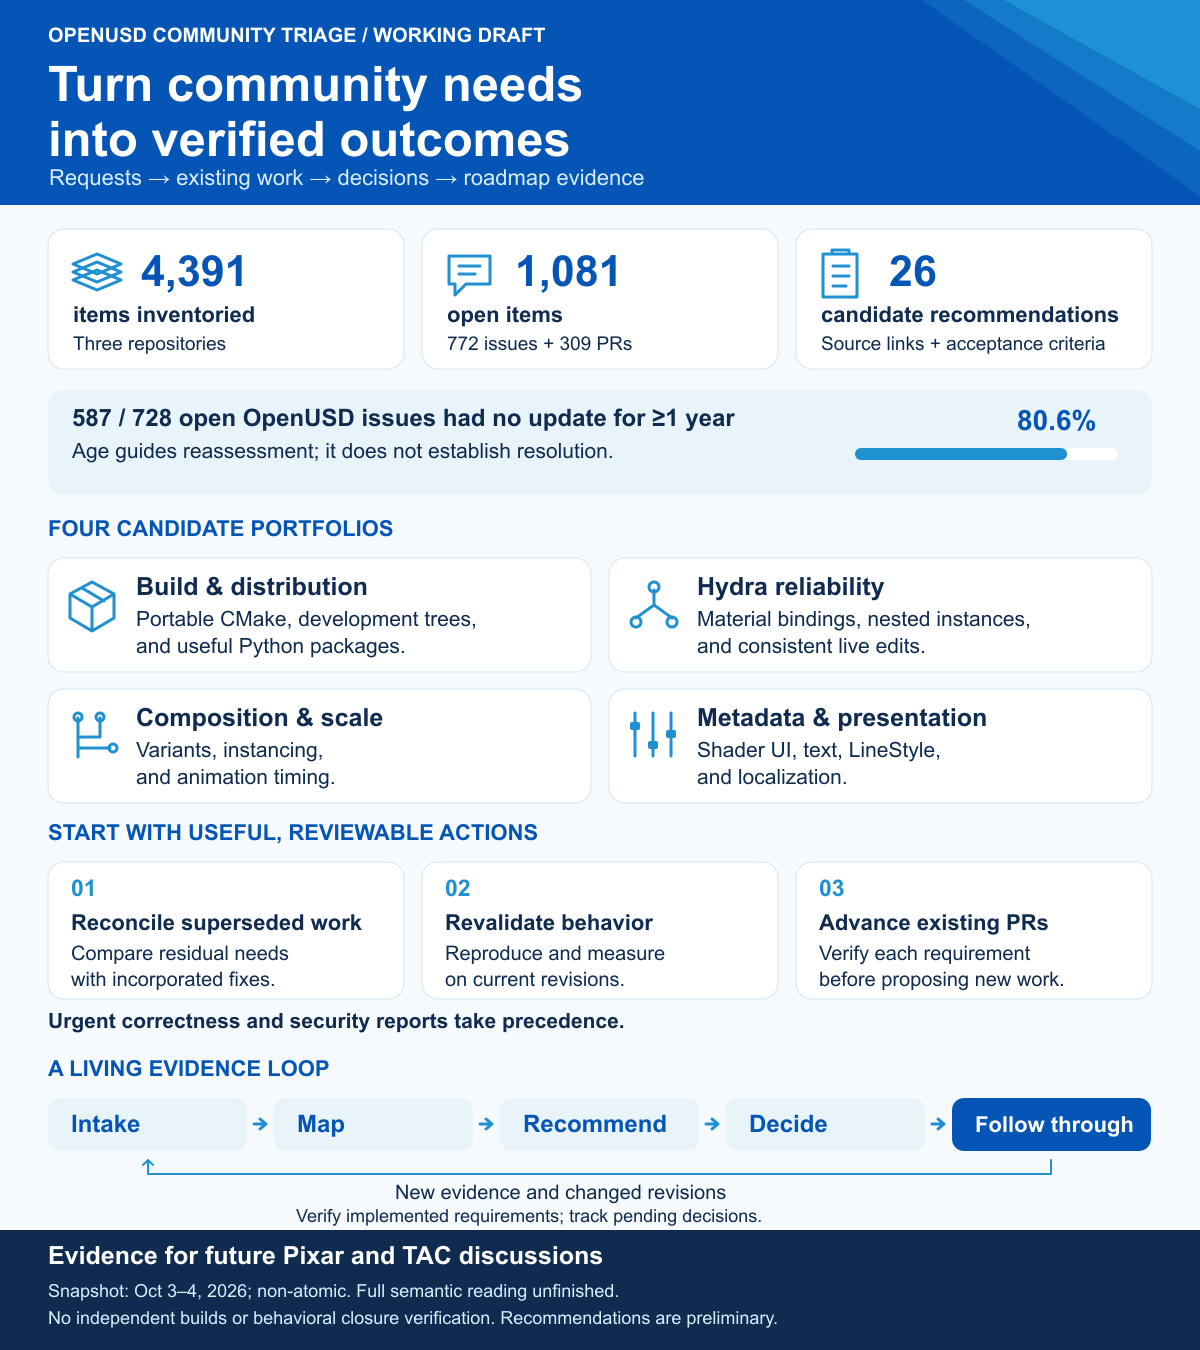
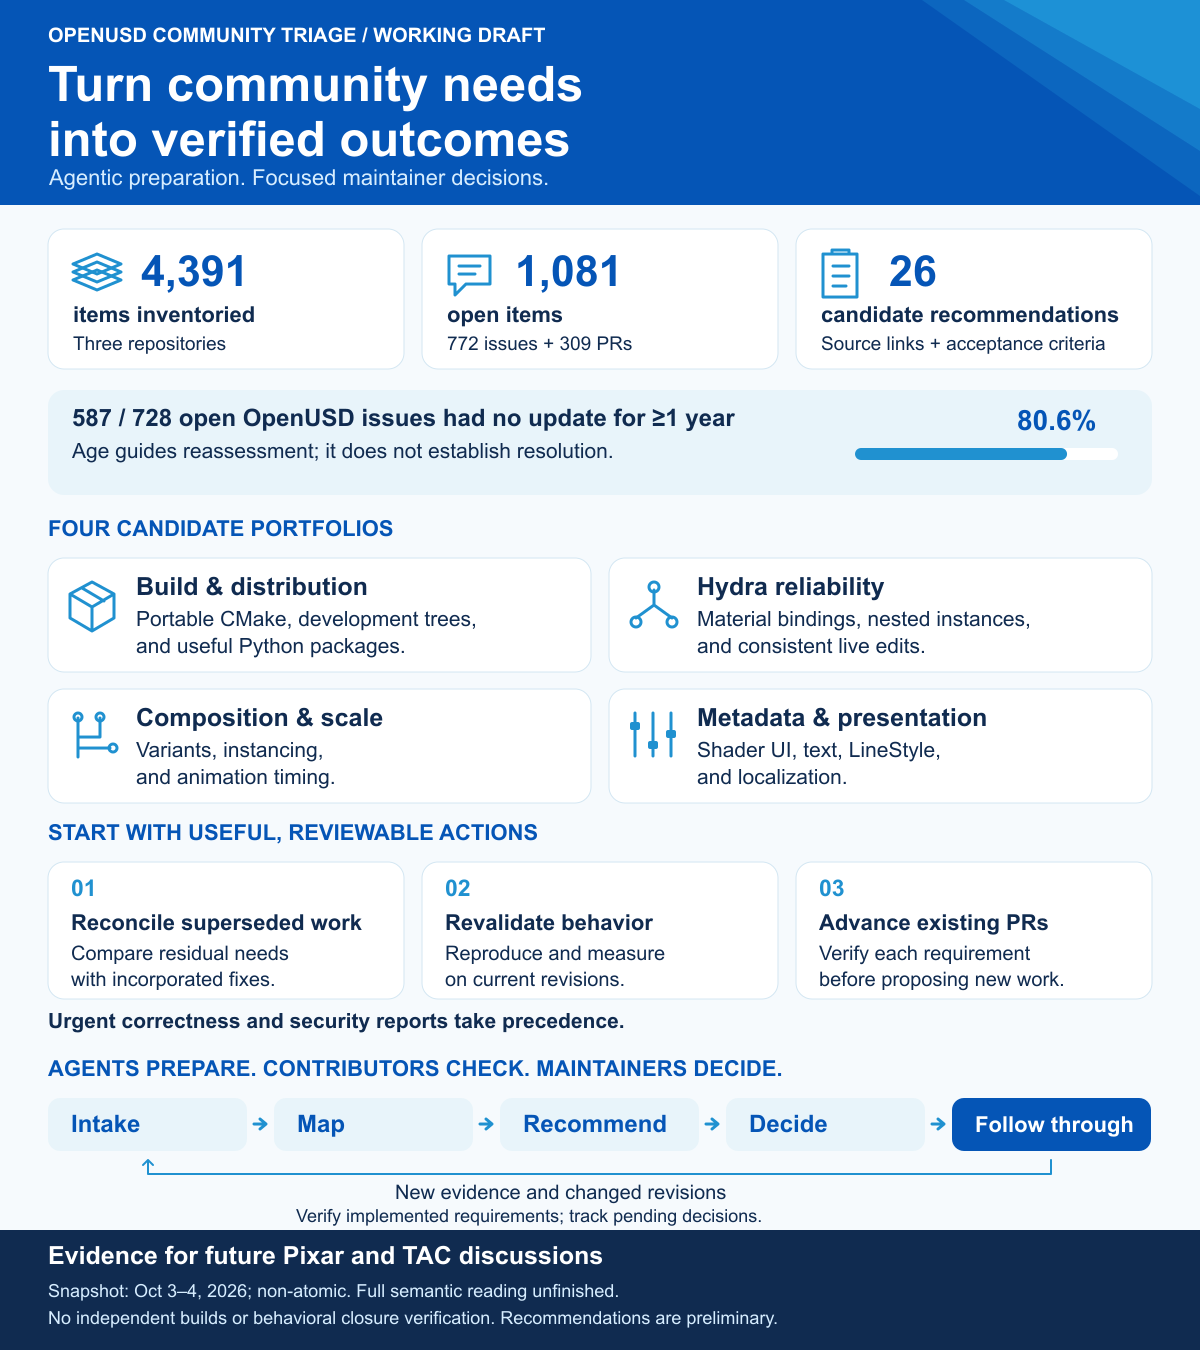
Make agentic assistance a pillar of scalable community triage

Changed region(s): [[0.0617, 0.7778, 0.6475, 0.8089], [0.0308, 0.1244, 0.5242, 0.1556]]

diff --git a/proposals/community-triage/README.md b/proposals/community-triage/README.md
@@ -10,17 +10,20 @@ and proposals across the USD ecosystem. Related discussions can develop separate
 making it difficult to see which requirements have been addressed, which decisions
 remain open, and where existing work could satisfy additional needs.
 
-This proposal would establish community-supported triage and follow-through that
-connects those requirements to implementation and standards decisions. Contributors
-would prepare source-linked recommendations for existing decision makers, tracking
-requested outcomes through design, implementation, verification, and release.
+This proposal would establish triage and follow-through built on three pillars:
+agentic evidence preparation, contributor validation, and focused maintainer
+decisions. Agents would pursue connected reading and analysis tasks, maintain
+source-linked records, and prepare recommendations. Contributors would check those
+records and assemble decision batches for existing decision makers. Requested
+outcomes would remain traceable through design, implementation, verification, and release.
 The intended outcomes are reliable behavior across tools and over time, and timely
 progress from growing domain demand to deployed capabilities.
 
 A living disposition register would make remaining requirements, decision
-dependencies, and accepted next steps visible. An illustrative six-week pilot
-would assess whether prepared evidence and bounded review batches help participants
-reach clearer decisions while keeping additional review effort proportionate.
+dependencies, and accepted next steps visible across the open inventory. An
+illustrative six-week pilot would demonstrate the method on a bounded sample and
+measure preparation throughput, evidence quality, and maintainer time. Those
+measurements would show how the work could expand toward full coverage.
 
 ![OpenUSD triage overview: 4,391 inventoried items, 1,081 open items, 26 preliminary recommendations; four candidate portfolios and an evidence review loop for future Pixar and TAC discussions.](assets/triage-overview.png)
 
@@ -33,6 +36,7 @@ reading is unfinished; no independent builds or behavioral closure verification
 were performed. The 26 recommendations are preliminary.
 
 **Navigate:** [Discussion path](#discussion-path) · [Workflow](#proposed-workflow) ·
+[Agentic assistance](#agentic-assistance) ·
 [Pilot](#pilot-and-acceptance-criteria) · [Review questions](#questions-for-review) ·
 [Evidence](#appendix-initial-evidence-and-candidate-portfolios) ·
 [Candidate register](#candidate-register)
@@ -55,7 +59,8 @@ measure the rate of growing demand or attribute delays to any participant.
 
 ## Goals
 
-- Make evidence, unresolved decisions, and possible next steps progressively clearer.
+- Work toward a source-linked assessment of every open item, with explicit reading coverage and unresolved questions.
+- Use agentic assistance to expand reading, relationship analysis, and continuing follow-through, with checked evidence and measured effort.
 - Preserve distinct requirements when reconciling duplicates or superseded work.
 - Identify existing and focused new changes with useful coverage of independent needs.
 - Track proposal publication, implementation, verification, and release separately.
@@ -85,13 +90,89 @@ The historical inventory includes open and historical issues and PRs in
 [AOUSD Build IG initiatives](https://github.com/aousd/build-ig-initiatives) provide an
 initial public coordination source. Additional sources can be included after their
 scope and public availability are confirmed. GitHub demand is a partial view of
-the community; the register can be useful without access to confidential internal work.
+the community. The proposed records would be grounded in public evidence and
+contributions authorized for publication.
+
+## How the Work Can Scale
+
+The proposed division of work is straightforward: agents and contributors prepare
+evidence across the inventory, while maintainers receive selected questions that
+need their judgment. Agents would carry out connected tasks from collection and
+reading through relationship analysis and updates. Contributors check source links,
+preserve distinct requirements, prepare reproductions or tests, and flag uncertainty
+before a record enters a decision batch. Authoritative decisions remain with the
+appropriate forum.
+
+The retained census and 26 candidate recommendations demonstrate an initial step:
+enumeration and connected evidence can yield a prepared queue. The pilot would
+test the quality and cost of extending that preparation, including less obvious
+relationships and longer discussions. Full semantic assessment and sustained
+throughput remain work to demonstrate.
+
+| Layer | Work prepared | Output for the next layer |
+| --- | --- | --- |
+| Agentic inventory and reading | Enumerate items and changed revisions; read connected evidence; expose coverage and gaps. | A complete list with visible preparation states and source-linked draft findings. |
+| Contributor assessment | Check evidence, reconcile related work, retain distinct requirements, and prepare verification needs. | Checked recommendations with uncertainty and residual needs. |
+| Focused decision batches | Select questions by impact, readiness, dependencies, and agreed review capacity. | A concise requested decision, supporting evidence, and links for deeper inspection. |
+| Follow-through | Record accepted decisions; contributors update evidence, tests, remaining requirements, and release status. | Reusable knowledge and less repeated investigation. |
+
+Each item can have a visible preparation state even while a decision is pending:
+inventoried, evidence under review, recommendation prepared, awaiting decision,
+decision recorded, or implemented outcome verified. These are community-record
+states; a prepared entry does not imply official maintainer acknowledgment.
+
+Batch size and cadence would fit an agreed review budget. Contributor findings
+would remain in the register rather than generating a comment on every issue or
+requiring a maintainer response to every entry. Each batch would foreground a few
+decisions, what evidence supports them, and what work contributors can take on.
+Broader coverage would improve visibility and candidate selection between batches.
+
+The scalability claim should be demonstrated through growing coverage, checked
+evidence, and lower maintainer effort per useful decision. Measure total preparation
+and upkeep cost as well, so effort transferred to contributors remains visible.
+
+### Agentic Assistance
+
+Agentic assistance is a proposed operating pillar. An assistant would follow a
+bounded research objective across issues, comments, proposal revisions, implementation
+PRs, and tests; identify missing evidence; perform the next relevant read or check;
+and update a persistent record. This goes beyond summarizing individual threads:
+the useful output is a maintained account of requirements, relationships, candidate
+coverage, and the next decision or verification needed.
+
+| Agent task | Reviewable output |
+| --- | --- |
+| Read and reconcile | Requirements, prior decisions, contradictions, and gaps, linked to exact sources and reviewed revisions. |
+| Connect existing work | Candidate relationships between reports, proposals, fixes, and releases; complete, partial, and possible coverage kept distinct. |
+| Prepare focused actions | A requested decision, residual requirements, proposed reproduction or test plan, and dependencies. |
+| Refresh affected findings | Changes since the last successful read, conclusions needing reassessment, and a resumable work queue. |
+| Build demand evidence | Independent needs and recurring themes with source links, explicit denominators, and unresolved implementation or standards questions. |
+
+Each record would distinguish retrieved evidence, an agent's inference, a
+contributor's assessment, and an authorized decision. Source URLs, revisions,
+retrieval checkpoints, and reading gaps would remain inspectable. A proposed
+relationship is a hypothesis until its supporting evidence has been checked;
+an implemented outcome requires appropriate verification. Agents could prepare
+and, in agreed environments, execute reproduction or test tasks, preserving the
+commands, revisions, and results for review.
+
+Contributors would validate records selected for a decision batch and sample the
+broader preparation queue to measure errors and missed relationships. Record
+maintenance would be incremental: new evidence triggers review of affected claims
+and linked candidates. External repository actions would remain a separately
+authorized activity; preparation itself can progress across the full inventory.
+
+The retained census and recommendation register are an initial demonstration of
+agent-assisted preparation. The pilot would measure its accuracy, correction cost,
+coverage, and upkeep under continuing changes. Agent activity or generated record
+count alone would not establish progress; the test is whether checked preparation
+helps contributors and maintainers reach useful outcomes with less repeated work.
 
 ## Discussion Path
 
-The first discussion would ask Pixar/OpenUSD maintainers whether a community-prepared
-batch of source-linked recommendations could help their existing triage and review.
-Agree on a manageable sample, useful evidence, and a review format before starting.
+The first discussion would present a prepared batch and ask Pixar/OpenUSD maintainers
+to evaluate its usefulness within an agreed review budget. Agree on a manageable
+sample, useful evidence, and a review format before starting.
 The steward would prepare the records; participating reviewers would choose where
 their expertise is needed and how much time they can contribute.
 
@@ -102,7 +183,7 @@ appropriate forums through existing processes.
 
 | Discussion | Concrete ask | Useful output |
 | --- | --- | --- |
-| Pixar / OpenUSD maintainers | Would a bounded, prepared review batch help? What sample, evidence, and review format fit available capacity? | Agreed pilot scope and participation, or specific feedback on what would make the contribution useful. |
+| Pixar / OpenUSD maintainers | Can this prepared batch produce useful decisions within an agreed time budget? Which evidence or presentation changes would make it more useful? | A measured review exercise, evidence corrections, and any accepted next steps. |
 | TAC, where relevant | Which recorded questions require coordination across implementation and standards work? | Appropriate decision forums, dependencies, and any accepted coordination next steps. |
 
 ## Definitions
@@ -133,7 +214,8 @@ flowchart TD
     A["New or changed item"] --> B["Read and map requirements"]
     B --> C["Identify missing evidence or decisions"]
     C --> D["Prepare a source-linked recommendation"]
-    D --> E["Existing maintainer or standards decision forum"]
+    D --> Q["Register findings; select a focused decision batch"]
+    Q --> E["Existing maintainer or standards decision forum"]
     E -->|Evidence or design needed| C
     E -->|Implementation path agreed| F["Review existing or focused new work"]
     F --> G{"Implemented requirements verified?"}
@@ -252,9 +334,10 @@ steward would prepare evidence records and bounded review batches. Component
 reviewers, proposal authors, and AOUSD contacts would participate where selected
 items require their expertise.
 
-Six weeks and 20–30 open items are illustrative planning choices. The sample should
-fit agreed capacity and need not cover every candidate portfolio. Proposed work
-remains unassigned until accepted; recommendations can remain pending.
+Six weeks and 20–30 open items are illustrative planning choices for contributor
+assessment. Only selected decision questions would enter maintainer review batches,
+sized to an agreed time budget. The sample need not cover every candidate portfolio.
+Proposed work remains unassigned until accepted; recommendations can remain pending.
 
 | Period | Work | Reviewable output |
 | --- | --- | --- |
@@ -275,6 +358,21 @@ contributor effort alongside coverage, evidence gaps, intake, review blockers,
 verified needs, and revised findings. Track publication, implementation, and release
 separately; closures alone are not success.
 
+The pilot should publish a measured case for expansion:
+
+| Measure | What it would demonstrate |
+| --- | --- |
+| Preparation throughput and coverage | How many items are assessed to the declared depth per contributor-hour, agent runtime and cost, and whether coverage grows relative to new intake. |
+| Evidence quality | Corrections found during independent checks, unsupported agent claims, missed relationships, and retained residual requirements. |
+| Maintainer review cost | Minutes per batch and per useful decision; where a comparable case is available, preparation and review time with and without a prepared record. |
+| Reuse and upkeep | Related items served by reusable evidence or fixtures, and effort to refresh records after new comments or revisions. |
+
+Use the observed rates to estimate the effort needed for wider coverage and the
+decision throughput supported by the agreed review budget. Publish assumptions and
+uncertainty, including difficult cases and any remaining bottleneck. A smaller
+pilot demonstrates a method and supplies scaling estimates; it does not establish
+that every case will be equally inexpensive.
+
 Any continuation proposal would state participating capacity, maintenance
 responsibilities, and the review cadence demonstrated to be useful during the pilot.
 Historical reading can continue without requiring completion of the entire corpus
@@ -285,7 +383,9 @@ before a bounded batch is useful.
 | Risk | Mitigation |
 | --- | --- |
 | Premature closure from superficial matches | Per-requirement evidence and maintainer review; preserve residual needs. |
-| Administrative burden | Small agreed sample, prepared review batches, reuse existing discussions, and measure reviewer effort. |
+| Administrative burden | Agree a review time budget; keep broad preparation with contributors; measure preparation, correction, and maintainer review effort separately. |
+| Record volume exceeds useful decision capacity | Make pending states visible, rank small decision batches, and measure intake against preparation and decision throughput. |
+| Agent findings are inaccurate or lose important context | Preserve inspectable evidence and revisions; validate decision-batch records; audit broader coverage and measure correction effort. |
 | Coverage incentives favor large PRs | Count marginal independent coverage and retain urgent single-item work. |
 | Stale register or automated summaries | Revision tracking, periodic reconciliation, and explicit human review. |
 | Demand overrepresented by vocal participants | Separate duplicates and independent needs; state GitHub participation limits. |
@@ -307,11 +407,11 @@ Scene-representation examples are therefore unnecessary.
 
 ## Questions for Review
 
-1. Would prepared, source-linked batches help Pixar/OpenUSD's existing review process?
-2. What sample, evidence, and review format would fit available capacity?
+1. Does the prepared batch enable useful decisions within an agreed maintainer time budget?
+2. What evidence, contributor support, and review format would improve that result?
 3. What verification and release conditions should support a resolution claim?
 4. Which questions could benefit from TAC coordination, and which existing forums should decide them?
-5. Is OpenUSD-proposals an appropriate home, and where should continuing records live?
+5. What measured preparation rates, evidence quality, and upkeep costs would justify wider coverage, and where should continuing records live?
 
 ## References and Proposal Precedents
 
